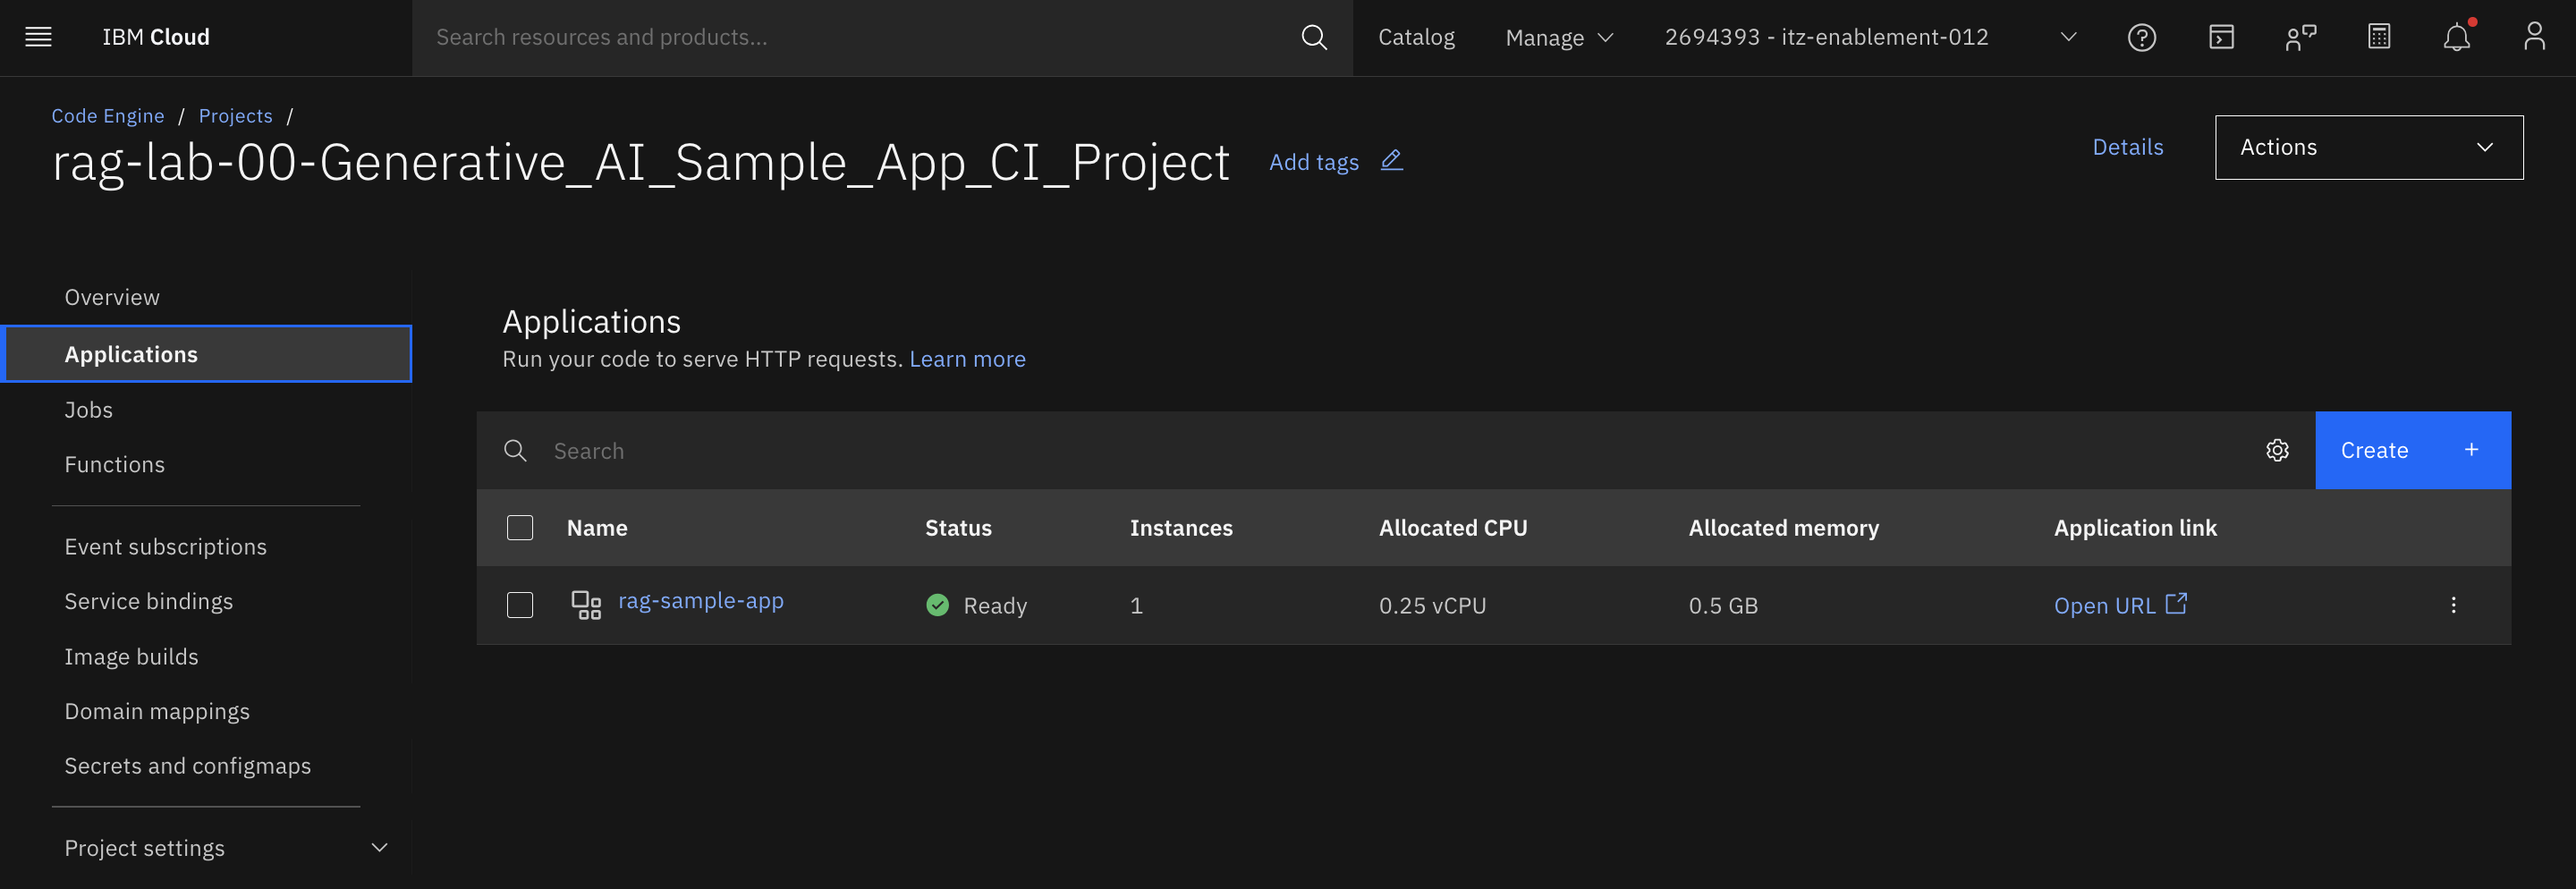
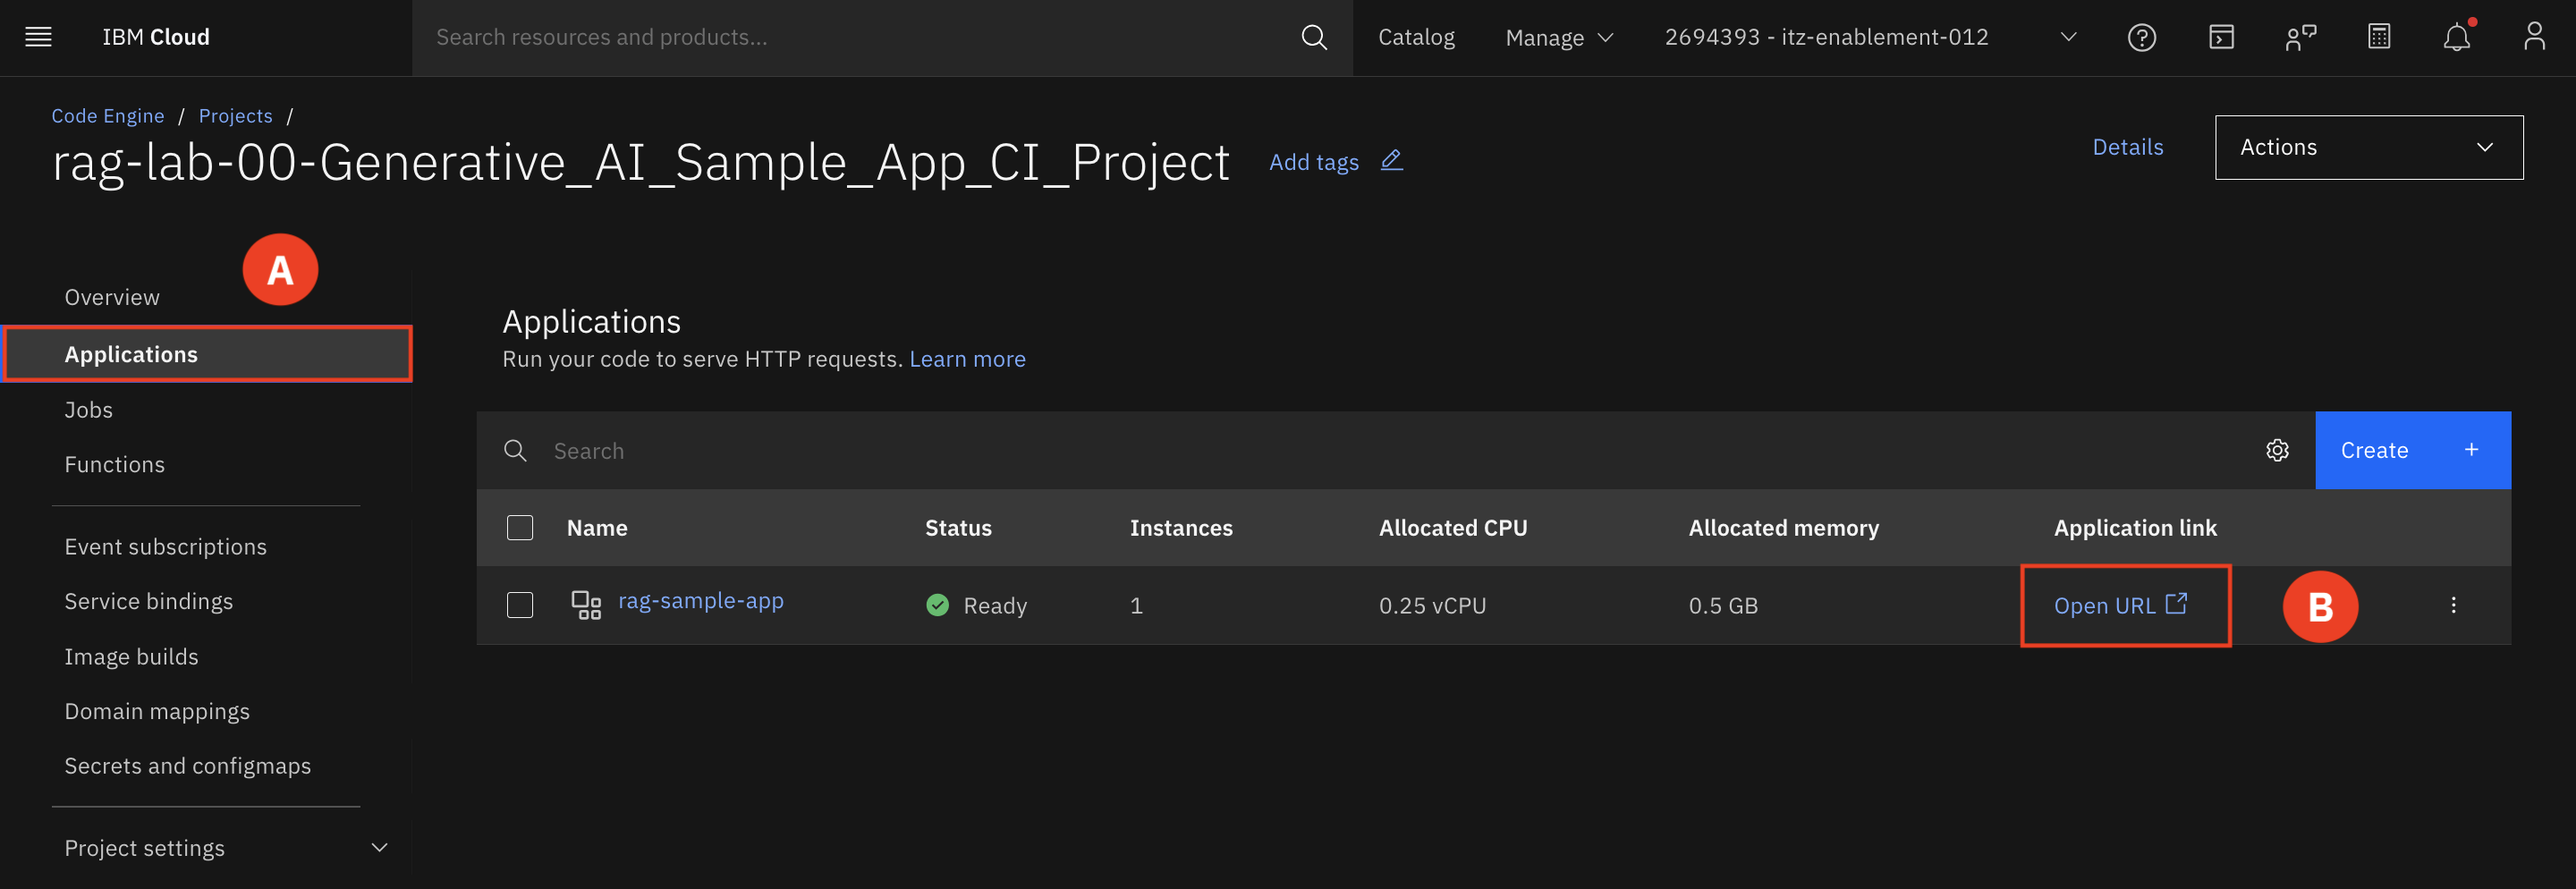
update screenshots

diff --git a/docs/lab/1_6-launch-app.md b/docs/lab/1_6-launch-app.md
@@ -5,10 +5,10 @@ We have a Generative AI application running on IBM Cloud that was developed usin
 Let's see the RAG Pattern Gen AI application in action: Assume you're a prospective consumer searching for a loan. You visit a bank's website and begin asking queries to the virtual agent. Using the bank's own data and the generative AI foundation model, the virtual agent generates solutions based on the inquiry, whether it's a general topic or trying to identify a specific loan product.
 
 1. Switch to the **Applications (A)** tab and select **Open URL (B)** to launch the application. 
-![alt text](../images/1.6.1.png)
+![alt text](../images/1.6.1-n.png)
 
 2. Open the virtual agent chat window in the bottom right-hand corner **(A)**.
-![alt text](../images/1.6.2.png)
+![alt text](../images/1.6.2-n.png)
 
 3. Ask the virtual assistant questions. Here are some example questions to get you started.
 * I need help in getting a loan
@@ -19,4 +19,4 @@ Let's see the RAG Pattern Gen AI application in action: Assume you're a prospect
 * Why do I need escrow?
 * I want to buy a very expensive property, which loan do you suggest?
 
-![alt text](../images/1.6.3.png)
+![alt text](../images/1.6.3-n.png)
